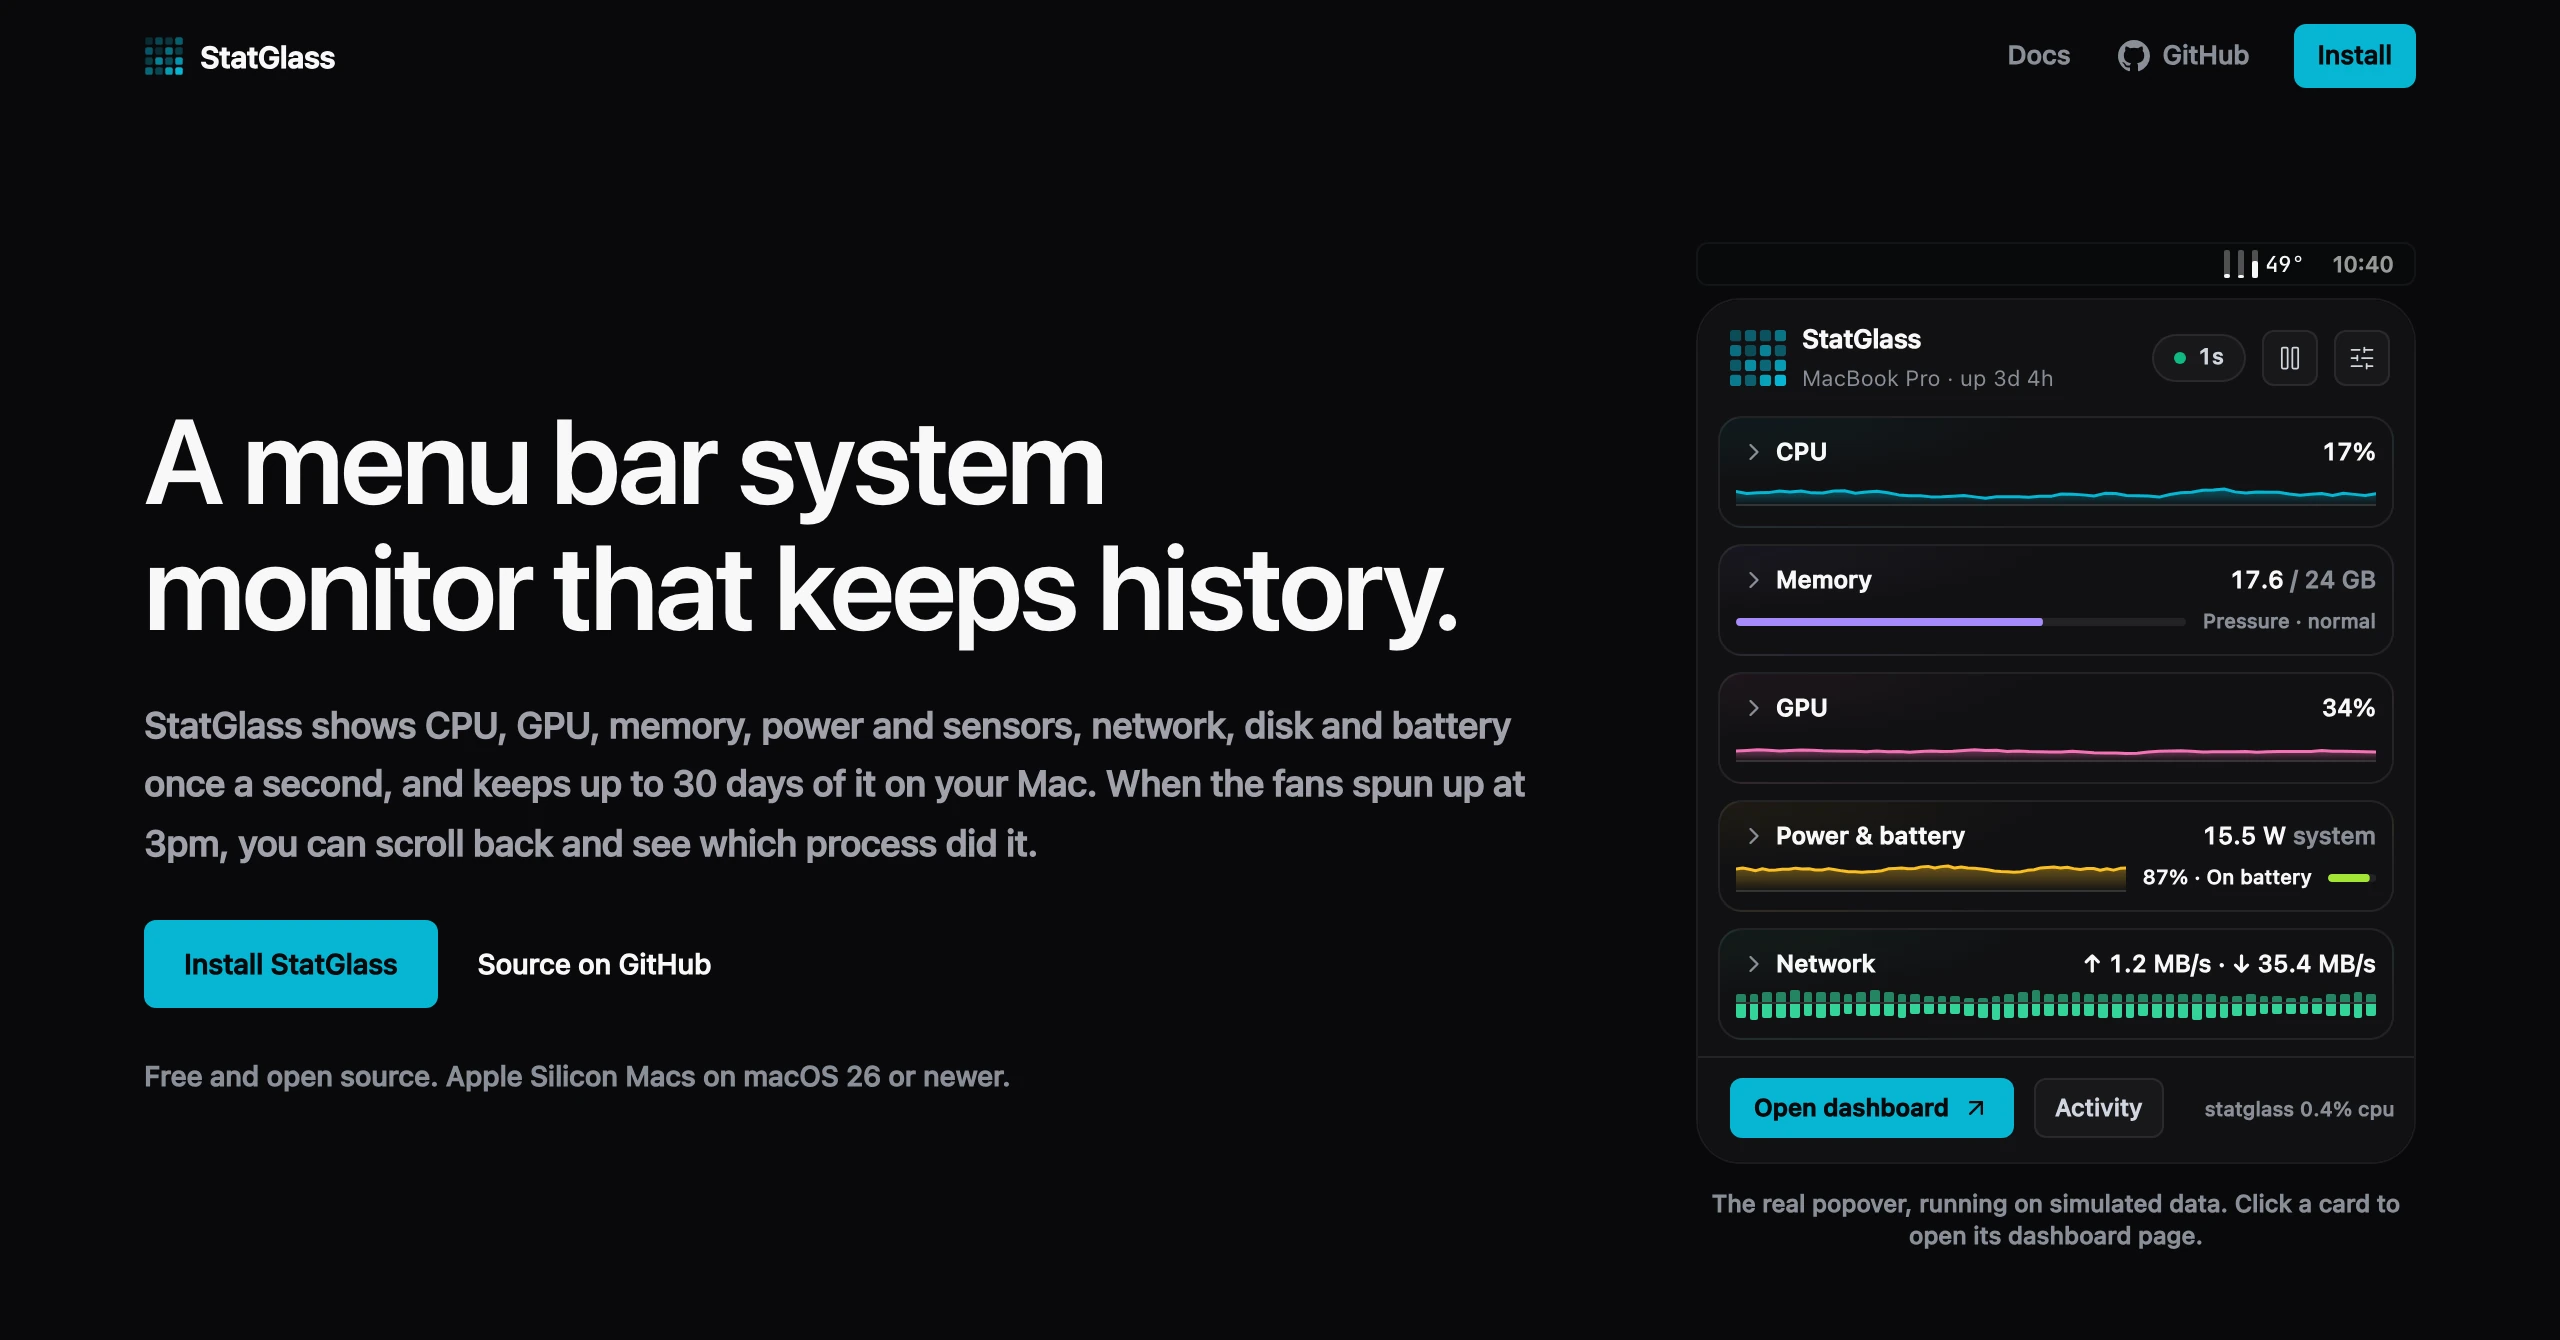
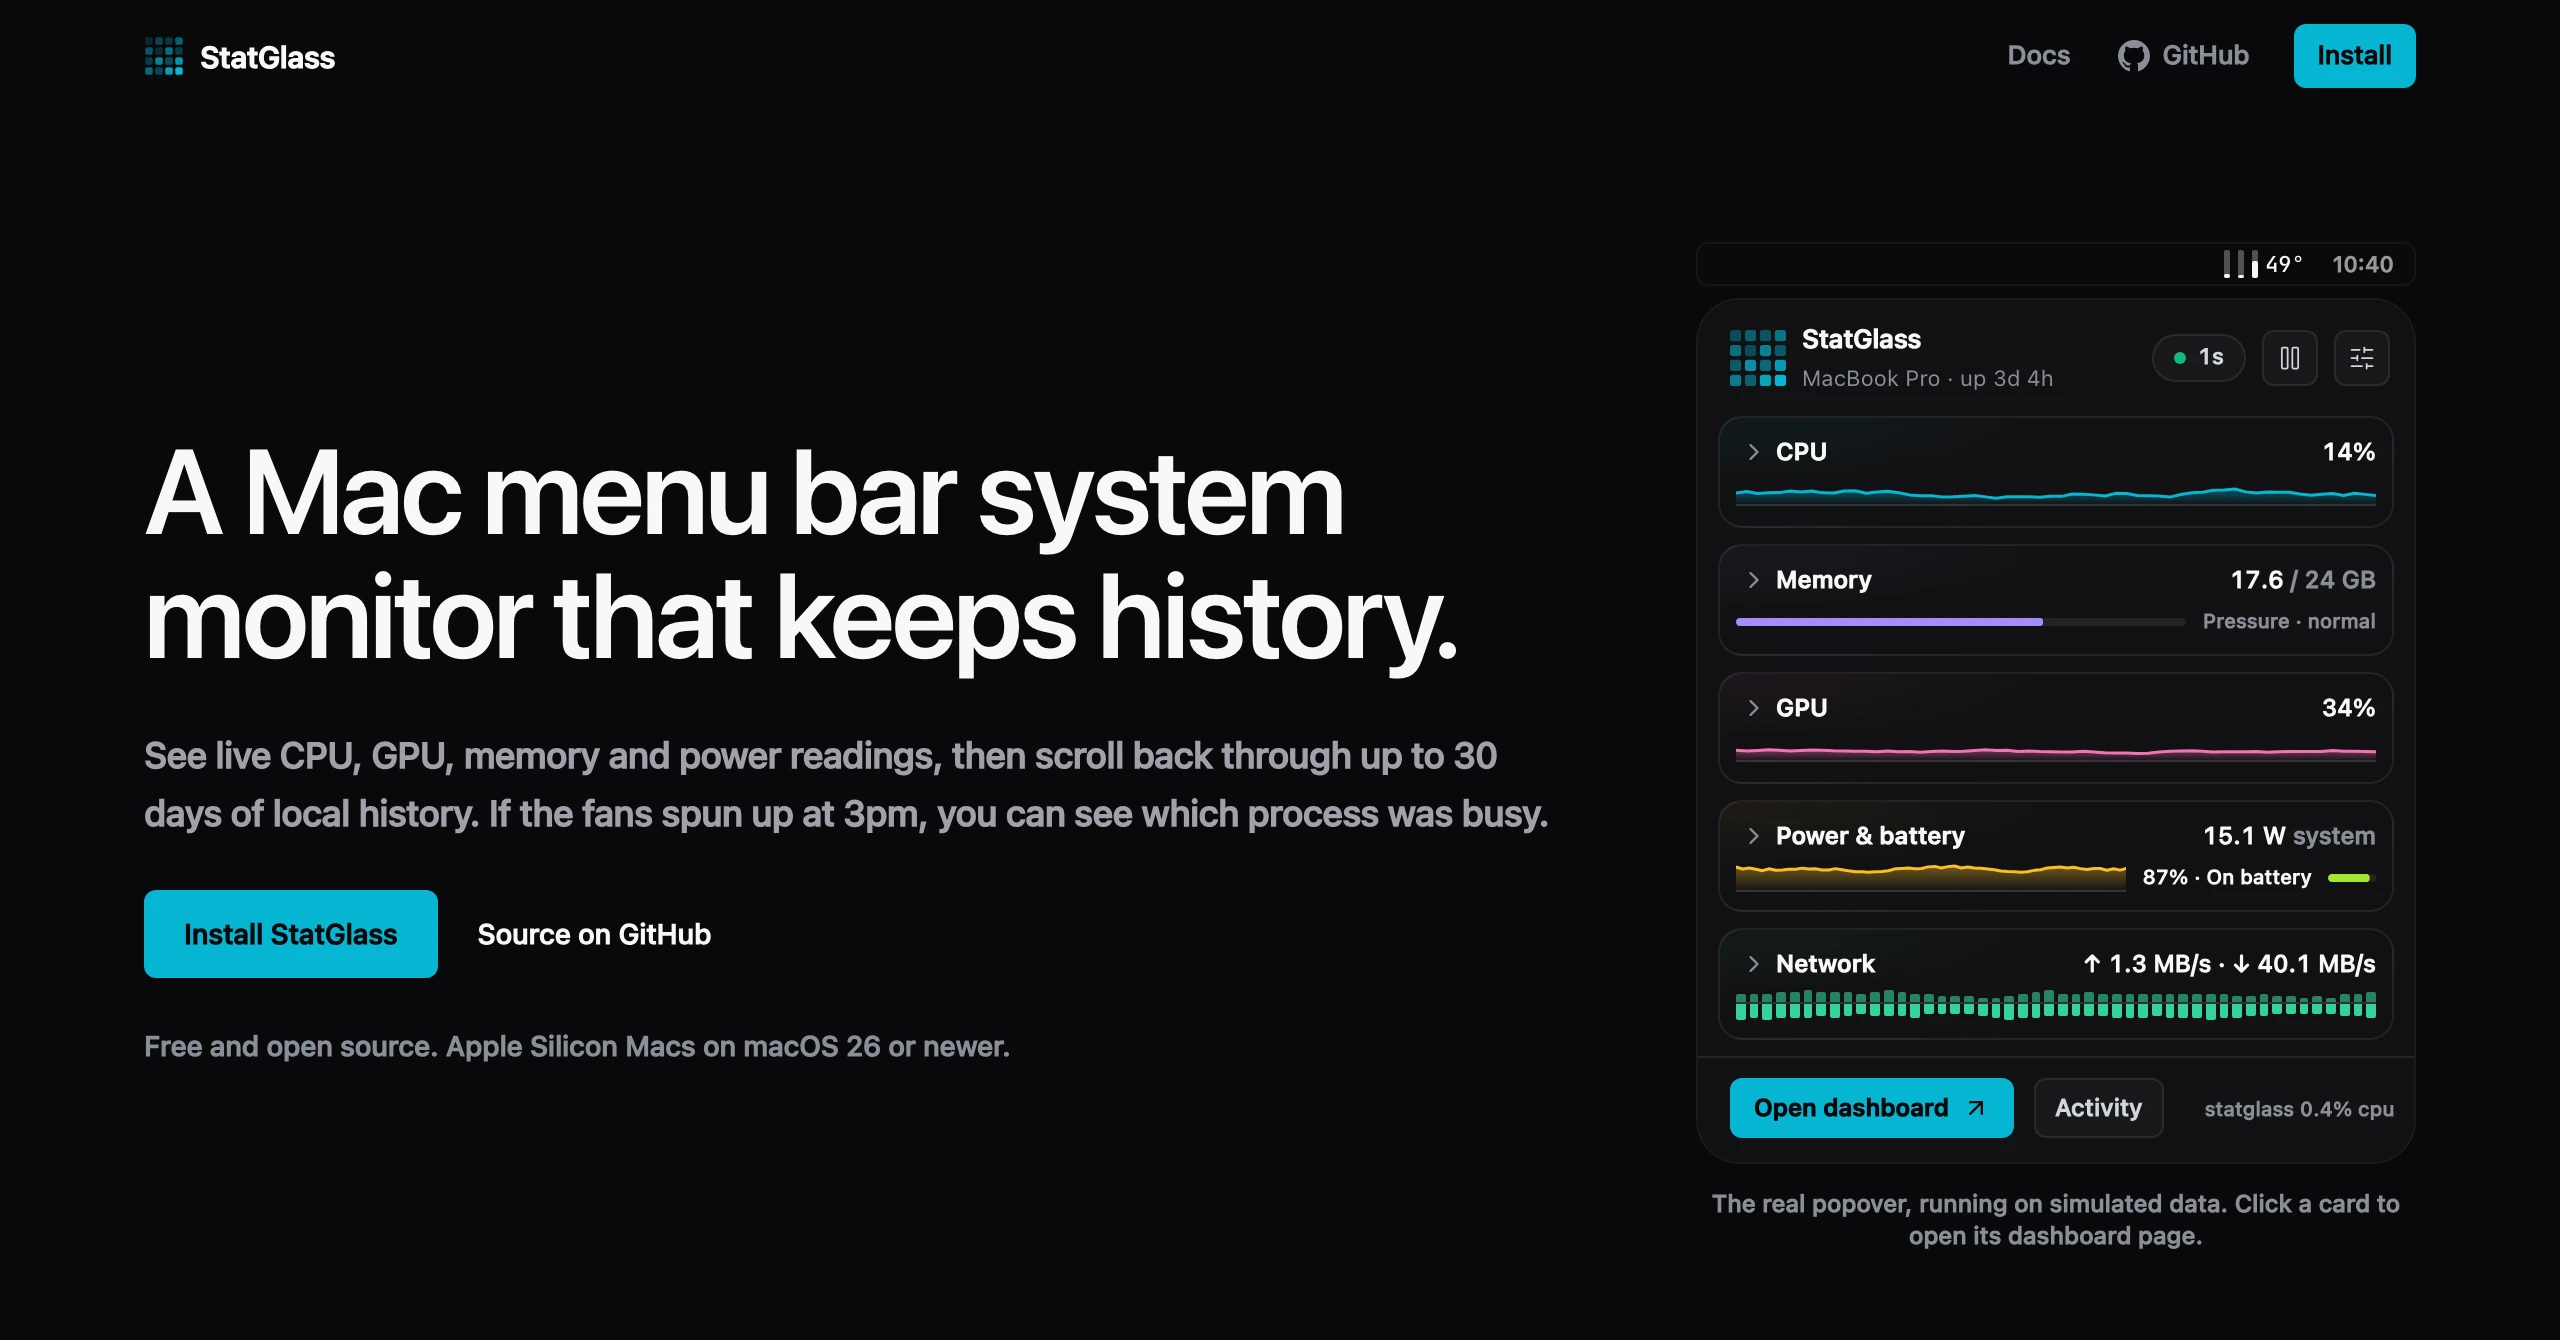
feat(site): improve StatGlass search and link previews

Changed region(s): [[0.0312, 0.306, 0.5938, 0.8261], [0.875, 0.7037, 0.9062, 0.7343]]

diff --git a/docs-site/tests/docs-pages.test.ts b/docs-site/tests/docs-pages.test.ts
@@ -63,6 +63,128 @@ function page(path: string): Document {
   return document;
 }
 
+const jsonLdSelector = 'script[type="application/ld+json"]';
+
+function meta(document: Document, attribute: "name" | "property", key: string) {
+  return document.head
+    .querySelector(`meta[${attribute}="${key}"]`)
+    ?.getAttribute("content");
+}
+
+it("identifies the Mac menu bar monitor in the home heading and search metadata", () => {
+  const home = page("/");
+  expect(
+    Array.from(home.querySelectorAll("h1"), (h1) => h1.textContent?.trim())
+  ).toEqual(["A Mac menu bar system monitor that keeps history."]);
+  expect(home.title).toBe("Menu Bar System Monitor for Mac | StatGlass");
+  expect(meta(home, "name", "description")).toBe(
+    "StatGlass is a free, open-source menu bar system monitor for Apple Silicon Macs. Track CPU, GPU, memory and more, with up to 30 days of local history."
+  );
+  expect(page("/docs").title).toBe("Documentation | StatGlass");
+  expect(page("/docs/install").title).toBe("Download for Mac | StatGlass");
+});
+
+it.each(["/", ...pages.map(({ path }) => path)])(
+  "publishes matching search and social metadata for %s",
+  (path) => {
+    const document = page(path);
+    const canonical = `${site}${path}`;
+    expect(
+      Array.from(
+        document.head.querySelectorAll('link[rel="canonical"]'),
+        (link) => link.getAttribute("href")
+      )
+    ).toEqual([canonical]);
+    expect(meta(document, "name", "robots")).toBe(
+      "max-snippet:-1, max-image-preview:large"
+    );
+
+    const description = meta(document, "name", "description");
+    const image = meta(document, "property", "og:image");
+    const imageAlt = meta(document, "property", "og:image:alt");
+    expect(description).toMatch(/\S/);
+    expect(image).toMatch(/^https:\/\//);
+    expect(imageAlt).toMatch(/\S/);
+    expect(meta(document, "property", "og:url")).toBe(canonical);
+    expect(meta(document, "property", "og:title")).toBe(document.title);
+    expect(meta(document, "property", "og:description")).toBe(description);
+    expect(meta(document, "name", "twitter:card")).toBe("summary_large_image");
+    expect(meta(document, "name", "twitter:title")).toBe(document.title);
+    expect(meta(document, "name", "twitter:description")).toBe(description);
+    expect(meta(document, "name", "twitter:image")).toBe(image);
+    expect(meta(document, "name", "twitter:image:alt")).toBe(imageAlt);
+  }
+);
+
+it("marks the 404 page noindex and omits canonical and social metadata", () => {
+  const document = page("/404");
+  expect(meta(document, "name", "robots")).toMatch(/\bnoindex\b/i);
+  expect(
+    document.head.querySelector(
+      'link[rel="canonical"], meta[property^="og:"], meta[name^="twitter:"]'
+    )
+  ).toBeNull();
+});
+
+it("describes the website and free Apple Silicon application only on the homepage", () => {
+  const scripts = page("/").querySelectorAll(jsonLdSelector);
+  expect(scripts).toHaveLength(1);
+  const data = JSON.parse(scripts[0]?.textContent ?? "");
+  expect(data).toMatchObject({
+    "@context": "https://schema.org",
+    "@graph": expect.arrayContaining([
+      expect.objectContaining({
+        "@type": "WebSite",
+        name: "StatGlass",
+        url: `${site}/`,
+      }),
+      expect.objectContaining({
+        "@type": "SoftwareApplication",
+        name: "StatGlass",
+        url: `${site}/`,
+        operatingSystem: "macOS 26 or later (Apple Silicon)",
+        offers: { "@type": "Offer", price: 0, priceCurrency: "USD" },
+      }),
+    ]),
+  });
+
+  for (const path of ["/404", ...pages.map(({ path }) => path)]) {
+    expect(page(path).querySelector(jsonLdSelector), path).toBeNull();
+  }
+});
+
+it("lists only the homepage and HTML docs in the sitemap", () => {
+  const locs = (file: string) =>
+    Array.from(
+      readFileSync(join(output, file), "utf8").matchAll(/<loc>([^<]+)<\/loc>/g),
+      (match) => match[1] ?? ""
+    );
+  const sitemapUrls = locs("sitemap-index.xml");
+  expect(sitemapUrls.length).toBeGreaterThan(0);
+  const urls = sitemapUrls.flatMap((url) => {
+    expect(new URL(url).origin).toBe(site);
+    return locs(new URL(url).pathname);
+  });
+  expect(urls.sort()).toEqual(
+    [`${site}/`, ...pages.map(({ path }) => `${site}${path}`)].sort()
+  );
+});
+
+it("ships noindex response headers for the demo and default Pages host", () => {
+  const headers = readFileSync(join(output, "_headers"), "utf8");
+  const noindexPaths = headers
+    .split(/\r?\n(?=\S)/)
+    .filter((block) =>
+      /^[ \t]+X-Robots-Tag:[^\r\n]*\b(?:noindex|none)\b/im.test(block)
+    )
+    .map((block) => block.split(/\r?\n/, 1)[0]);
+  expect(noindexPaths.sort()).toEqual([
+    "/demo",
+    "/demo/*",
+    "https://statglass.pages.dev/*",
+  ]);
+});
+
 it("builds every docs page with one h1 matching its title", () => {
   expect(pages.length).toBeGreaterThanOrEqual(6);
   for (const { path, title } of pages) {

diff --git a/docs-site/src/islands/MenuBarStyles.tsx b/docs-site/src/islands/MenuBarStyles.tsx
@@ -57,10 +57,12 @@ export function MenuBarStyles() {
             <dd className="text-sm text-secondary-foreground">{detail}</dd>
           </div>
           <dd className="min-w-0">
-            <TrayPreview
-              layout={trayLayout(menuBar, () => true, readings, UNITS)}
-              className="sm:w-[240px]"
-            />
+            <div data-nosnippet="">
+              <TrayPreview
+                layout={trayLayout(menuBar, () => true, readings, UNITS)}
+                className="sm:w-[240px]"
+              />
+            </div>
           </dd>
         </div>
       ))}

diff --git a/docs-site/src/config.ts b/docs-site/src/config.ts
@@ -1,7 +1,7 @@
 export const SITE = {
   title: "StatGlass",
   description:
-    "A menu bar system monitor for Apple Silicon Macs that keeps history.",
+    "StatGlass is a free, open-source menu bar system monitor for Apple Silicon Macs. Track CPU, GPU, memory and more, with up to 30 days of local history.",
   /** Landing hero screenshot from brand/build.mjs --og, 2560x1340. */
   ogImage: "/og.webp",
   ogImageAlt:

diff --git a/plan/PROGRESS.md b/plan/PROGRESS.md
@@ -4,6 +4,20 @@ This file tracks where StatGlass is against the plan. Task-level checkboxes live
 
 Agents update this file whenever a phase starts or finishes. Each update adds a log entry: what changed, how it was verified, and anything left open. They also tick the matching checkboxes in the version doc.
 
+## Landing page SEO (2026-11-04)
+
+The StatGlass homepage now leads with its Mac menu bar monitor and local history.
+The docs hub and install guide have distinct search titles. The site serves matching
+search and social metadata, an updated social card, and homepage WebSite and
+SoftwareApplication markup. Cloudflare Pages marks the mock demo and Pages alias
+`noindex`. The sitemap still lists the homepage and the nine HTML docs.
+
+Verified locally with the docs-site formatting and type checks, 137 Vitest tests,
+and a production build. Schema.org's validator found two items with zero errors
+or warnings. Compared Chromium screenshots at 1280 and 390 px. The shorter
+intro leaves more room for the mobile demo, with the existing type, spacing,
+and component styles. Exercised the desktop dashboard and both popover demos.
+
 ## Memory footprint, GPU process and window lifecycle (2026-11-04, branch `perf/memory-footprint-bench`, D-127)
 
 The popover's webview is built without WebKit's accelerated drawing

diff --git a/docs-site/src/content/docs/index.md b/docs-site/src/content/docs/index.md
@@ -1,6 +1,6 @@
 ---
 title: StatGlass documentation
-description: What StatGlass monitors, what it needs to run, and where to start.
+description: Learn what StatGlass monitors on Apple Silicon Macs, how to use the menu bar and dashboard, and how local history and remote monitoring work.
 group: Getting started
 order: 0
 sidebarLabel: Introduction

diff --git a/docs-site/src/content/docs/install.md b/docs-site/src/content/docs/install.md
@@ -1,6 +1,6 @@
 ---
 title: Install StatGlass
-description: Download StatGlass, approve the first launch, or build it from source.
+description: Download StatGlass for Apple Silicon Macs running macOS 26 or later. Follow the steps to install the DMG, approve the first launch, or build from source.
 group: Getting started
 order: 1
 featured: true
